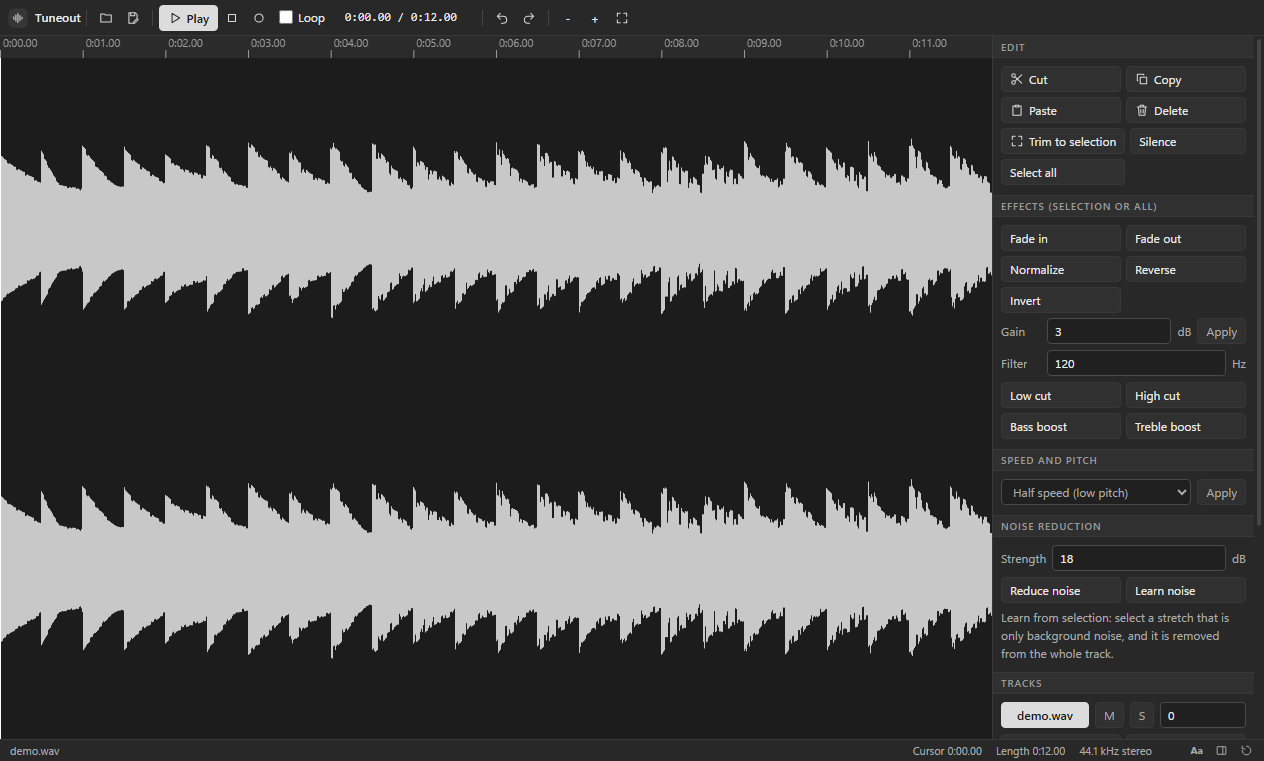
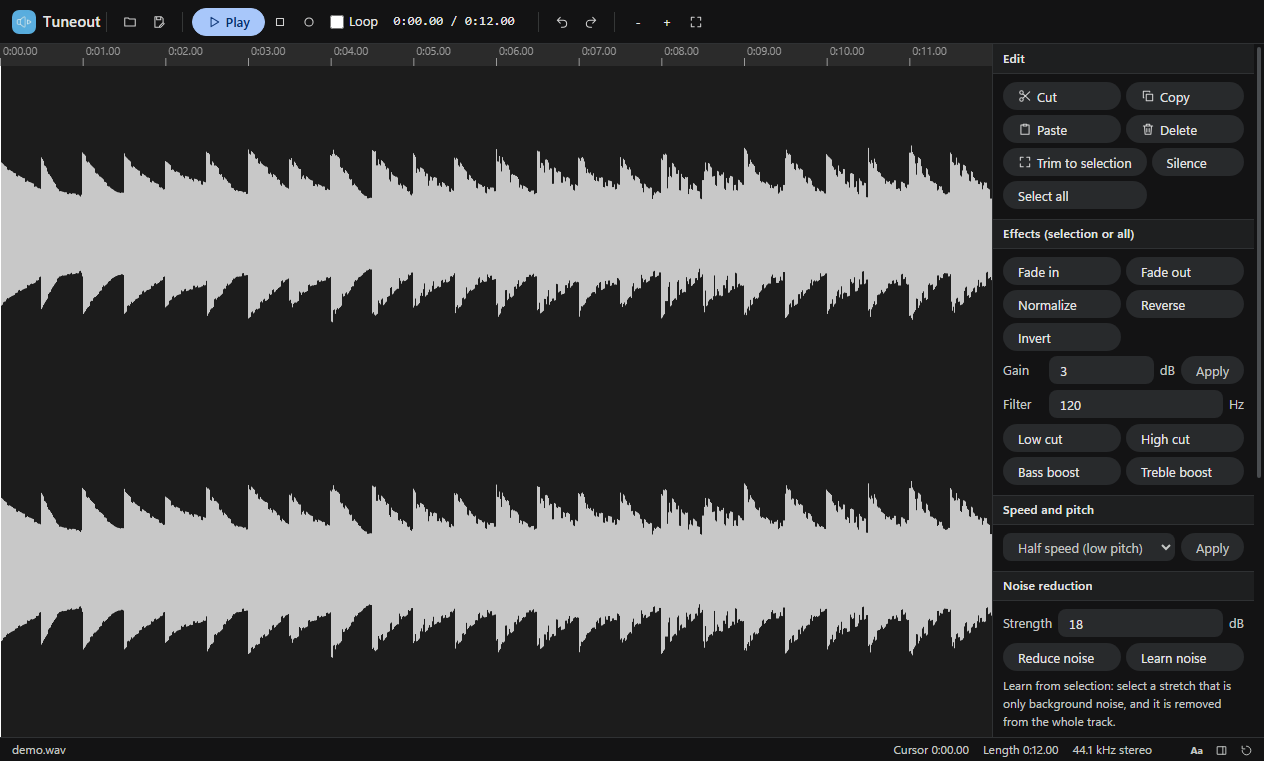
fix: Tuneout 1.0.16
New Google-style look: charcoal theme, pill buttons, blue accent, colour app logo. Refreshed README and screenshots.

diff --git a/renderer/lookout.css b/renderer/lookout.css
@@ -1,68 +1,69 @@
-/* Lookout gray UI kit v3: compact pro workspace, flat, no hue. Shared by every Lookout app. */
+/* Lookout UI kit v4: Google-style dark (AI Studio / Colab / Gemini): soft surfaces, pill buttons, blue accent. Shared by every Lookout app. */
 :root{
-  --bg:#202020; --bg-2:#282828; --bg-3:#303030; --bg-4:#3a3a3a; --stage:#181818;
-  --line:#383838; --line-2:#4a4a4a; --line-3:#5c5c5c;
-  --text:#e8e8e8; --text-2:#ababab; --text-3:#9a9a9a;
-  --accent:#dcdcdc; --accent-ink:#1b1b1b; --focus:#a0a0a0;
-  --radius:4px; --h:26px; --pad:8px;
-  --font:"Segoe UI Variable Text","Segoe UI",system-ui,-apple-system,sans-serif; --mono:Consolas,"Cascadia Mono",monospace;
+  --bg:#131314; --bg-2:#1e1f20; --bg-3:#282a2c; --bg-4:#333537; --stage:#0e0e0f;
+  --line:#2f3133; --line-2:#444746; --line-3:#5f6368;
+  --text:#e3e3e3; --text-2:#c4c7c5; --text-3:#9aa0a6;
+  --accent:#a8c7fa; --accent-ink:#062e6f; --accent-2:#0b57d0; --accent-soft:#2b3a55; --focus:#a8c7fa;
+  --radius:8px; --h:28px; --pad:10px;
+  --font:"Google Sans Text","Google Sans",Roboto,"Segoe UI Variable Text","Segoe UI",system-ui,-apple-system,sans-serif; --mono:Consolas,"Cascadia Mono",monospace;
 }
 *{box-sizing:border-box;margin:0;padding:0}
-html,body{height:100%;background:var(--bg);color:var(--text);font:12px/1.4 var(--font);overflow:hidden;user-select:none;-webkit-font-smoothing:antialiased}
+html,body{height:100%;background:var(--bg);color:var(--text);font:13px/1.45 var(--font);overflow:hidden;user-select:none;-webkit-font-smoothing:antialiased}
 button,input,select,textarea{font:inherit;color:inherit}
 .app{display:grid;grid-template-rows:auto 1fr auto;height:100vh}
 
 /* ---------- toolbar ---------- */
-.toolbar{display:flex;align-items:center;gap:1px;padding:4px 8px;min-height:36px;background:var(--bg-2);border-bottom:1px solid var(--line);flex-wrap:nowrap;overflow-x:auto;overflow-y:hidden;scrollbar-width:none}
+.toolbar{display:flex;align-items:center;gap:1px;padding:6px 12px;min-height:44px;background:var(--bg);border-bottom:1px solid var(--line);flex-wrap:nowrap;overflow-x:auto;overflow-y:hidden;scrollbar-width:none}
 .toolbar::-webkit-scrollbar{height:0}
 .toolbar>*{flex-shrink:0}
-.toolbar .sep{width:1px;height:16px;align-self:center;background:var(--line-2);margin:0 5px;opacity:.8}
+.toolbar .sep{width:1px;height:20px;align-self:center;background:var(--line-2);margin:0 8px;opacity:.7}
 .toolbar .grow{flex:1 1 auto;min-width:8px}
 .toolbar input[type=text],.toolbar input[type=search]{width:150px}
-.brand{display:flex;align-items:center;gap:7px;padding-right:2px;margin-right:2px;font-weight:600;font-size:12px;color:var(--text)}
-.brand img{width:20px;height:20px;border-radius:5px;display:block}
+.brand{display:flex;align-items:center;gap:7px;padding-right:2px;margin-right:2px;font-weight:500;font-size:15px;letter-spacing:.1px;color:var(--text)}
+.brand img{width:24px;height:24px;border-radius:7px;display:block}
 .brand+.sep{margin-left:0}
 
 /* ---------- buttons ---------- */
-.btn{display:inline-flex;align-items:center;justify-content:center;gap:5px;height:var(--h);padding:0 8px;background:var(--bg-3);border:1px solid var(--line);border-radius:var(--radius);cursor:pointer;white-space:nowrap;line-height:1;transition:background .08s,border-color .08s}
-.btn:hover{background:var(--bg-4);border-color:var(--line-2)}
-.btn:active{background:#262626}
+.btn{display:inline-flex;align-items:center;justify-content:center;gap:5px;height:var(--h);padding:0 14px;background:var(--bg-3);border:1px solid transparent;border-radius:999px;cursor:pointer;white-space:nowrap;line-height:1;transition:background .08s,border-color .08s}
+.btn:hover{background:var(--bg-4)}
+.btn:active{background:#3c3f41}
 .btn:focus-visible,input:focus-visible,select:focus-visible,textarea:focus-visible,[tabindex]:focus-visible{outline:2px solid var(--focus);outline-offset:1px}
-.btn.primary{background:var(--accent);color:var(--accent-ink);border-color:var(--accent);font-weight:600}
-.btn.primary:hover{background:#ececec;border-color:#ececec}
-.btn.on{background:#4a4a4a;border-color:var(--line-3);box-shadow:inset 0 0 0 1px #6a6a6a}
+.btn.primary{background:var(--accent);color:var(--accent-ink);border-color:var(--accent);font-weight:500}
+.btn.primary:hover{background:#c2d7fb;border-color:#c2d7fb;box-shadow:0 1px 3px rgba(0,0,0,.4)}
+.btn.on{background:var(--accent-soft);color:var(--accent);border-color:transparent}
 .btn[disabled]{opacity:.45;pointer-events:none}
-.btn.icon{padding:0;width:var(--h);min-width:var(--h)}
+.btn.icon{padding:0;width:var(--h);min-width:var(--h);border-radius:50%}
 .btn .ic{width:14px;height:14px;flex-shrink:0;display:block;opacity:.92}
 .toolbar .btn:not(.primary):not(.on){background:transparent;border-color:transparent}
-.toolbar .btn:not(.primary):not(.on):hover{background:var(--bg-4);border-color:var(--line-2)}
+.toolbar .btn:not(.primary):not(.on):hover{background:var(--bg-3);border-color:transparent}
 
 /* icon-only toolbar: names live in the tooltip (Aa in the status bar brings the labels back) */
-.toolbar:not(.lbl) .btn:not(.primary):has(> svg.ic),.toolbar.c3 .btn:has(> svg.ic){font-size:0;gap:0;width:var(--h);padding:0}
+.toolbar:not(.lbl) .btn:not(.primary):has(> svg.ic),.toolbar.c3 .btn:has(> svg.ic){font-size:0;gap:0;width:var(--h);padding:0;border-radius:50%}
 .toolbar.c2 .brand span{display:none}
 .toolbar.c2 input[type=text],.toolbar.c2 input[type=search]{width:110px}
 .toolbar.lbl.c1 .btn.minor:not(.primary):has(> svg.ic),.toolbar.lbl.c2 .btn:not(.primary):has(> svg.ic){font-size:0;gap:0;width:var(--h);padding:0}
 
 /* ---------- fields ---------- */
-input[type=text],input[type=number],input[type=search],input[type=date],select,textarea{background:var(--bg);border:1px solid var(--line-2);border-radius:var(--radius);padding:0 7px;height:var(--h);user-select:text;min-width:0;font-size:12px}
+input[type=text],input[type=number],input[type=search],input[type=date],select,textarea{background:var(--bg-3);border:1px solid transparent;border-radius:var(--radius);padding:0 10px;height:var(--h);user-select:text;min-width:0;font-size:13px}
 input[type=number],.frow>input,.field>input{font-variant-numeric:tabular-nums}
 textarea{height:auto;padding:5px 7px;resize:vertical;line-height:1.4}
 select{padding-right:4px;cursor:pointer}
-input:hover,select:hover,textarea:hover{border-color:var(--line-3)}
-input[type=range]{accent-color:#c8c8c8;height:var(--h)}
-input[type=checkbox]{accent-color:#c8c8c8;width:14px;height:14px;cursor:pointer}
-input[type=color]{border:1px solid var(--line-2);background:var(--bg);width:26px;height:var(--h);padding:2px;border-radius:var(--radius)}
-label.field{display:flex;flex-direction:column;gap:3px;color:var(--text-2);font-size:11px}
-label.field>input,label.field>select,label.field>textarea{width:100%;color:var(--text);font-size:12px}
+input:hover,select:hover,textarea:hover{background:var(--bg-4)}
+input[type=text]:focus,input[type=number]:focus,input[type=search]:focus,input[type=date]:focus,select:focus,textarea:focus{outline:none;border-color:var(--accent);background:var(--bg-2)}
+input[type=range]{accent-color:#a8c7fa;height:var(--h)}
+input[type=checkbox]{accent-color:#a8c7fa;width:14px;height:14px;cursor:pointer}
+input[type=color]{border:1px solid var(--line-2);background:var(--bg-3);width:26px;height:var(--h);padding:2px;border-radius:var(--radius)}
+label.field{display:flex;flex-direction:column;gap:3px;color:var(--text-2);font-size:12px}
+label.field>input,label.field>select,label.field>textarea{width:100%;color:var(--text);font-size:13px}
 
 /* ---------- layout ---------- */
 .main{display:flex;min-height:0;min-width:0}
-.sidebar{width:210px;background:var(--bg-2);border-right:1px solid var(--line);overflow:auto;padding:var(--pad);flex-shrink:0;min-width:0}
+.sidebar{width:210px;background:var(--bg);border-right:1px solid var(--line);overflow:auto;padding:var(--pad);flex-shrink:0;min-width:0}
 .sidebar.right{border-right:0;border-left:1px solid var(--line);width:250px}
 .sidebar.collapsed{display:none!important}
-.sidebar h3,.panel-title{font-size:10px;text-transform:uppercase;letter-spacing:.09em;color:var(--text-3);font-weight:600}
+.sidebar h3,.panel-title{font-size:12px;letter-spacing:.2px;color:var(--text-2);font-weight:500}
 .sidebar h3{margin:12px 0 6px}
-.sidebar>h3{display:flex;align-items:center;gap:6px;height:22px;margin:10px calc(var(--pad) * -1) 8px;padding:0 var(--pad);background:var(--bg-3);border-top:1px solid var(--line);border-bottom:1px solid var(--line)}
+.sidebar>h3{display:flex;align-items:center;gap:6px;height:30px;margin:10px calc(var(--pad) * -1) 8px;padding:0 var(--pad);background:var(--bg-2);border-top:1px solid var(--line);border-bottom:1px solid var(--line);color:var(--text)}
 .sidebar>h3:first-child{margin-top:calc(var(--pad) * -1);border-top:0}
 .panel-title{margin:12px 0 6px}
 .sidebar input[type=text],.sidebar input[type=search],.sidebar select,.sidebar textarea{width:100%}
@@ -73,20 +74,20 @@ label.field>input,label.field>select,label.field>textarea{width:100%;color:var(-
 .sidebar .btn{width:auto}
 .sidebar>.btn{width:100%;margin-bottom:5px}
 .stage{flex:1;min-width:0;min-height:0;position:relative;background:var(--stage);overflow:auto}
-.status{display:flex;gap:14px;align-items:center;height:22px;padding:0 10px;background:var(--bg-2);border-top:1px solid var(--line);color:var(--text-2);font-size:11px;white-space:nowrap;overflow:hidden}
+.status{display:flex;gap:14px;align-items:center;height:24px;padding:0 12px;background:var(--bg);border-top:1px solid var(--line);color:var(--text-2);font-size:12px;white-space:nowrap;overflow:hidden}
 .status .grow{flex:1}
 body.hasdock .status{padding-right:112px}
-.wbs{position:fixed;right:6px;bottom:2px;height:18px;display:flex;gap:2px;z-index:8;background:var(--bg-2);padding-left:6px}
+.wbs{position:fixed;right:6px;bottom:2px;height:18px;display:flex;gap:2px;z-index:8;background:var(--bg);padding-left:6px}
 .wbs[hidden]{display:none}
-.wbs .wb{height:18px;min-width:22px;padding:0 4px;display:inline-flex;align-items:center;justify-content:center;font-size:10px;font-weight:700;line-height:1;background:transparent;border:1px solid transparent;border-radius:3px;color:var(--text-2);cursor:pointer}
+.wbs .wb{height:18px;min-width:22px;padding:0 4px;display:inline-flex;align-items:center;justify-content:center;font-size:10px;font-weight:700;line-height:1;background:transparent;border:1px solid transparent;border-radius:6px;color:var(--text-2);cursor:pointer}
 .wbs .wb[hidden]{display:none}
 .wbs .wb svg{width:13px;height:13px;display:block}
-.wbs .wb:hover{background:var(--bg-4);border-color:var(--line-2);color:var(--text)}
-.wbs .wb.on{background:var(--bg-4);border-color:var(--line-3);color:var(--text)}
+.wbs .wb:hover{background:var(--bg-3);color:var(--text)}
+.wbs .wb.on{background:var(--accent-soft);color:var(--accent)}
 .list{display:flex;flex-direction:column;gap:1px}
-.list .item{padding:3px 6px;border-radius:var(--radius);cursor:pointer;border:1px solid transparent;display:flex;gap:6px;align-items:center;min-height:26px}
+.list .item{padding:3px 10px;border-radius:999px;cursor:pointer;border:1px solid transparent;display:flex;gap:6px;align-items:center;min-height:26px}
 .list .item:hover{background:var(--bg-3)}
-.list .item.sel{background:var(--bg-4);border-color:var(--line-2)}
+.list .item.sel{background:var(--accent-soft);color:var(--accent);border-color:transparent}
 .row{display:flex;gap:5px;align-items:center}
 .grow{flex:1 1 auto;min-width:0}
 .brow{display:grid;grid-template-columns:1fr 1fr;gap:5px;margin-bottom:5px}
@@ -99,17 +100,17 @@ body.hasdock .status{padding-right:112px}
 .sidebar .swatches{margin-bottom:8px}
 .list .item .btn{height:22px!important;width:24px!important;padding:0!important;font-size:0!important;gap:0;background:transparent;border-color:transparent;opacity:.55}
 .list .item:hover .btn,.list .item.sel .btn{opacity:1}
-.list .item .btn:hover{background:var(--bg-4);border-color:var(--line-2)}
+.list .item .btn:hover{background:var(--bg-4)}
 .col{display:flex;flex-direction:column;gap:5px}
 .muted{color:var(--text-2)}
 .empty{position:absolute;inset:0;display:flex;flex-direction:column;align-items:center;justify-content:center;gap:10px;color:var(--text-3);text-align:center;padding:24px}
-.empty .big{font-size:16px;color:var(--text-2);font-weight:600}
+.empty .big{font-size:20px;color:var(--text);font-weight:400}
 
 /* panel grip: drag to resize, double-click to collapse or restore */
 .grip{position:relative;flex:0 0 5px;width:5px;margin:0 -3px 0 -2px;z-index:6;cursor:col-resize;touch-action:none}
 .grip::after{content:"";position:absolute;top:0;bottom:0;left:2px;width:1px;background:transparent;transition:background .1s}
-.grip:hover::after,.grip.drag::after{background:var(--line-3);width:2px;left:1px}
-.grip.collapsed{flex:0 0 8px;width:8px;margin:0;background:var(--bg-2);border-left:1px solid var(--line);border-right:1px solid var(--line)}
+.grip:hover::after,.grip.drag::after{background:var(--accent);width:2px;left:1px}
+.grip.collapsed{flex:0 0 8px;width:8px;margin:0;background:var(--bg);border-left:1px solid var(--line);border-right:1px solid var(--line)}
 .grip.collapsed::after{left:3px;top:calc(50% - 14px);bottom:auto;height:28px;width:2px;background:var(--line-3);border-radius:2px}
 .grip.collapsed:hover{background:var(--bg-3)}
 body.gripping{cursor:col-resize}
@@ -117,30 +118,30 @@ body.gripping *{cursor:col-resize!important;user-select:none!important}
 
 /* ---------- overlays ---------- */
 .modal-back{position:fixed;inset:0;background:rgba(0,0,0,.6);display:flex;align-items:center;justify-content:center;z-index:50}
-.modal{background:var(--bg-2);border:1px solid var(--line-2);border-radius:8px;min-width:340px;max-width:80vw;max-height:85vh;overflow:auto;padding:16px;display:flex;flex-direction:column;gap:12px;box-shadow:0 18px 50px rgba(0,0,0,.5)}
-.modal h2{font-size:14px;font-weight:600}
-.toast{position:fixed;left:50%;bottom:34px;transform:translateX(-50%);background:var(--bg-4);border:1px solid var(--line-3);padding:7px 14px;border-radius:6px;z-index:60;box-shadow:0 8px 24px rgba(0,0,0,.4)}
-.progress{height:5px;background:var(--bg);border:1px solid var(--line);border-radius:4px;overflow:hidden}
+.modal{background:var(--bg-2);border:0;border-radius:24px;min-width:360px;max-width:80vw;max-height:85vh;overflow:auto;padding:24px;display:flex;flex-direction:column;gap:14px;box-shadow:0 8px 32px rgba(0,0,0,.6)}
+.modal h2{font-size:20px;font-weight:400}
+.toast{position:fixed;left:50%;bottom:34px;transform:translateX(-50%);background:#e3e3e3;color:#1f1f1f;border:0;padding:10px 18px;border-radius:8px;z-index:60;box-shadow:0 8px 24px rgba(0,0,0,.4)}
+.progress{height:6px;background:var(--bg-3);border:0;border-radius:999px;overflow:hidden}
 .progress>i,.progress>div{display:block;height:100%;background:var(--accent);width:0}
 
 /* ---------- tables ---------- */
 table.grid{border-collapse:separate;border-spacing:0;width:100%}
 table.grid th,table.grid td{border-bottom:1px solid var(--line);padding:0 10px;height:30px;text-align:left;vertical-align:middle}
-table.grid th{background:var(--bg-2);color:var(--text-2);font-weight:600;font-size:11px;position:sticky;top:0;z-index:1;height:26px}
-table.grid tbody tr:hover td{background:#242424}
-table.grid tr.sel td{background:#323232}
+table.grid th{background:var(--bg-2);color:var(--text-2);font-weight:500;font-size:12px;position:sticky;top:0;z-index:1;height:26px}
+table.grid tbody tr:hover td{background:var(--bg-2)}
+table.grid tr.sel td{background:var(--accent-soft)}
 table.grid tbody tr{cursor:default}
 table.grid td .btn{height:22px;margin-left:6px;vertical-align:middle}
 table.grid td{white-space:nowrap}
 
 /* ---------- misc ---------- */
 ::-webkit-scrollbar{width:10px;height:10px}
-::-webkit-scrollbar-thumb{background:#454545;border:3px solid transparent;background-clip:padding-box;border-radius:8px}
-::-webkit-scrollbar-thumb:hover{background:#5a5a5a;background-clip:padding-box;border:3px solid transparent}
+::-webkit-scrollbar-thumb{background:#4a4d50;border:3px solid transparent;background-clip:padding-box;border-radius:8px}
+::-webkit-scrollbar-thumb:hover{background:#6b6f73;background-clip:padding-box;border:3px solid transparent}
 ::-webkit-scrollbar-track,::-webkit-scrollbar-corner{background:transparent}
 .swatches{display:flex;flex-wrap:wrap;gap:5px}
-.swatches button{width:20px;height:20px;border:1px solid var(--line-3);border-radius:4px;cursor:pointer;padding:0}
+.swatches button{width:22px;height:22px;border:1px solid var(--line-3);border-radius:50%;cursor:pointer;padding:0}
 .swatches button.on{outline:2px solid var(--accent);outline-offset:2px}
-kbd{font-family:var(--mono);font-size:10px;background:var(--bg-3);border:1px solid var(--line-2);border-bottom-width:2px;border-radius:3px;padding:0 4px}
+kbd{font-family:var(--mono);font-size:10px;background:var(--bg-3);border:1px solid var(--line-2);border-bottom-width:2px;border-radius:4px;padding:0 5px}
 
 input::placeholder,textarea::placeholder{color:var(--text-3);opacity:1}

diff --git a/README.md b/README.md
@@ -1,8 +1,10 @@
-<p align="center"><img src="screenshots/banner.png" alt="Tuneout" width="100%"></p>
+<p align="center"><img src="screenshots/logo.png" alt="Tuneout" width="128"></p>
 
-<p align="center"><b>Record and edit audio</b><br>Version 1.0.3 for Windows · Free · Offline · No account</p>
+<h1 align="center">Tuneout</h1>
 
-<p align="center"><a href="https://github.com/plawanpawin-byte/tuneout/releases/latest"><b>Download Tuneout</b></a> · <a href="https://github.com/plawanpawin-byte/Lookout">All Lookout apps</a></p>
+<p align="center"><b>Record and edit audio</b><br>Version 1.0.16 for Windows · Free · Offline · No account</p>
+
+<p align="center"><a href="https://github.com/plawanpawin-byte/tuneout/releases/latest"><b>Download Tuneout</b></a> · <a href="https://github.com/plawanpawin-byte/lookout-launcher">Lookout launcher</a> · <a href="https://github.com/plawanpawin-byte/Lookout">All Lookout apps</a></p>
 
 ---
 
@@ -12,11 +14,51 @@ Tuneout is an audio editor. See your sound as a waveform, select a part with the
 
 ![Tuneout](screenshots/01-waveform.png)
 
-**On this page:** [Screenshots](#see-it-in-action) · [Interface](#the-interface) · [Features](#everything-it-can-do) · [How to use it](#how-to-use-it) · [Shortcuts](#keyboard-shortcuts) · [Formats](#files-and-formats) · [Privacy](#private-by-design) · [Install](#install) · [Questions](#questions)
+**On this page:** [In plain words](#in-plain-words) · [Who it is for](#who-it-is-for) · [Try it in 3 steps](#try-it-in-3-steps) · [Screenshots](#see-it-in-action) · [Features](#everything-it-can-do) · [How to use it](#how-to-use-it) · [Privacy](#private-by-design) · [Install](#install) · [Questions](#questions)
 
-## What is new in 1.0.3
+## In plain words
 
-A refreshed interface: every toolbar button now has a clear line icon, the app's mark sits at the top left, controls share one height and spacing, panels line up in tidy grids, and the toolbar keeps every button reachable on smaller windows by switching less important buttons to icons.
+Tuneout is an **audio editor**. It shows your sound as a **waveform**, a picture of the loudness over time, so you can see where each word or beat is. Drag the mouse across the waveform to select a part, then cut, copy, paste or delete it, make it fade in or out, make it louder or quieter, or change its speed.
+
+You can also **record** from a microphone. Save the result as WAV, MP3, FLAC, AAC or Opus.
+
+**Not for:** Tuneout edits one audio file at a time. It is not a multi-track music studio.
+
+## Who it is for
+
+- **Podcasters and voice-over artists** tidying recordings.
+- **Students** cutting a lecture clip.
+- **Anyone** making a ringtone or trimming silence from a voice note.
+
+## Try it in 3 steps
+
+1. Click **Open** to load an audio file, or **Record** to make a new one.
+2. Drag over the part you want to remove and press **Delete**.
+3. Apply **Normalise**, then **Save as**.
+
+## What is new in 1.0.16
+
+A new look inspired by Google's own tools (AI Studio, Colab, Gemini): a calm dark charcoal theme, rounded pill buttons, a soft blue accent and roomier spacing. The app icon is now a colour logo so you can find Tuneout at a glance in the Start menu and in the Lookout launcher. All screenshots below were taken again with the new look.
+
+## In plain words
+
+Tuneout is an **audio editor**. It shows your sound as a **waveform**, a picture of the loudness over time, so you can see where each word or beat is. Drag the mouse across the waveform to select a part, then cut, copy, paste or delete it, make it fade in or out, make it louder or quieter, or change its speed.
+
+You can also **record** from a microphone. Save the result as WAV, MP3, FLAC, AAC or Opus.
+
+**Not for:** Tuneout edits one audio file at a time. It is not a multi-track music studio.
+
+## Who it is for
+
+- **Podcasters and voice-over artists** tidying recordings.
+- **Students** cutting a lecture clip.
+- **Anyone** making a ringtone or trimming silence from a voice note.
+
+## Try it in 3 steps
+
+1. Click **Open** to load an audio file, or **Record** to make a new one.
+2. Drag over the part you want to remove and press **Delete**.
+3. Apply **Normalise**, then **Save as**.
 
 ## See it in action
 
@@ -122,7 +164,7 @@ Opens MP3, WAV, FLAC, AAC, M4A, OGG, Opus, WMA and common video files. Saves MP3
 
 ## Install
 
-1. Open the [latest release](https://github.com/plawanpawin-byte/tuneout/releases/latest) and download the file named **Tuneout-Setup-** followed by the version number and **.exe**. You can also install it from the [Lookout launcher](https://github.com/${OWNER}/lookout-launcher), which keeps it up to date.
+1. Open the [latest release](https://github.com/plawanpawin-byte/tuneout/releases/latest) and download the file named **Tuneout-Setup-** followed by the version number and **.exe**. You can also install it from the [Lookout launcher](https://github.com/plawanpawin-byte/lookout-launcher), which keeps it up to date.
 2. Run the installer. It installs just for you, so it does not ask for administrator rights.
 3. Windows may show a blue **Windows protected your PC** screen because these installers are not signed with a paid certificate. Click **More info**, then **Run anyway**.
 4. Open Tuneout from the Start menu.
@@ -134,18 +176,40 @@ Opens MP3, WAV, FLAC, AAC, M4A, OGG, Opus, WMA and common video files. Saves MP3
 **Is editing destructive?**  
 Edits happen in memory and can be undone until you save a file.
 
+**What is normalise?**  
+It raises or lowers the volume so the loudest part reaches a standard level.
+
+**What is a fade?**  
+A gradual change in volume at the start or end so the sound does not begin or stop suddenly.
+
+**Can I undo?**  
+Yes, until you save.
+
+**What is normalise?**  
+It raises or lowers the volume so the loudest part reaches a standard level.
+
+**What is a fade?**  
+A gradual change in volume at the start or end so the sound does not begin or stop suddenly.
+
+**Can I undo?**  
+Yes, until you save.
+
 ## About Lookout
 
-Tuneout belongs to the **[Lookout](https://github.com/plawanpawin-byte/Lookout)** family: ten small, private Windows apps for documents and media, all with the same calm grey look and the same promise that your files stay yours. Install and update them together with the [Lookout launcher](https://github.com/plawanpawin-byte/lookout-launcher).
+Tuneout is part of **[Lookout](https://github.com/plawanpawin-byte/Lookout)**: ten small, private Windows apps for documents and media that share one look and one promise, that your files stay on your computer. Install and update them together with the [Lookout launcher](https://github.com/plawanpawin-byte/lookout-launcher).
 
-- **[Pageout](https://github.com/plawanpawin-byte/pageout)**: read, annotate and sign pdfs
-- **[Chartout](https://github.com/plawanpawin-byte/chartout)**: flowcharts and diagrams
-- **[Branchout](https://github.com/plawanpawin-byte/branchout)**: mind maps and outlines
-- **[Planout](https://github.com/plawanpawin-byte/planout)**: plans and gantt timelines
-- **[Frameout](https://github.com/plawanpawin-byte/frameout)**: screen design and prototypes
-- **[Cutout](https://github.com/plawanpawin-byte/cutout)**: video editing on a timeline
-- **[Shiftout](https://github.com/plawanpawin-byte/shiftout)**: convert and compress media
-- **[Castout](https://github.com/plawanpawin-byte/castout)**: record your screen
-- **[Mendout](https://github.com/plawanpawin-byte/mendout)**: repair damaged media
+| | App | What it is for | Code |
+| --- | --- | --- | --- |
+| <img src="https://raw.githubusercontent.com/plawanpawin-byte/lookout-launcher/main/build/icon.png" width="32" alt="Lookout"> | **Lookout** | Install, open and update all the apps below | [GitHub](https://github.com/plawanpawin-byte/lookout-launcher) |
+| <img src="https://raw.githubusercontent.com/plawanpawin-byte/pageout/main/build/icon.png" width="32" alt="Pageout"> | **Pageout** | Read, annotate and sign PDFs | [GitHub](https://github.com/plawanpawin-byte/pageout) |
+| <img src="https://raw.githubusercontent.com/plawanpawin-byte/chartout/main/build/icon.png" width="32" alt="Chartout"> | **Chartout** | Flowcharts, org charts and diagrams | [GitHub](https://github.com/plawanpawin-byte/chartout) |
+| <img src="https://raw.githubusercontent.com/plawanpawin-byte/branchout/main/build/icon.png" width="32" alt="Branchout"> | **Branchout** | Mind maps and outlines | [GitHub](https://github.com/plawanpawin-byte/branchout) |
+| <img src="https://raw.githubusercontent.com/plawanpawin-byte/planout/main/build/icon.png" width="32" alt="Planout"> | **Planout** | Project plans and Gantt timelines | [GitHub](https://github.com/plawanpawin-byte/planout) |
+| <img src="https://raw.githubusercontent.com/plawanpawin-byte/frameout/main/build/icon.png" width="32" alt="Frameout"> | **Frameout** | App and web screen design with click-through prototypes | [GitHub](https://github.com/plawanpawin-byte/frameout) |
+| <img src="https://raw.githubusercontent.com/plawanpawin-byte/cutout/main/build/icon.png" width="32" alt="Cutout"> | **Cutout** | Video editing on a timeline | [GitHub](https://github.com/plawanpawin-byte/cutout) |
+| <img src="https://raw.githubusercontent.com/plawanpawin-byte/shiftout/main/build/icon.png" width="32" alt="Shiftout"> | **Shiftout** | Convert and compress video and audio, make GIFs | [GitHub](https://github.com/plawanpawin-byte/shiftout) |
+| <img src="https://raw.githubusercontent.com/plawanpawin-byte/castout/main/build/icon.png" width="32" alt="Castout"> | **Castout** | Record your screen | [GitHub](https://github.com/plawanpawin-byte/castout) |
+| <img src="https://raw.githubusercontent.com/plawanpawin-byte/mendout/main/build/icon.png" width="32" alt="Mendout"> | **Mendout** | Check and repair damaged video, audio, pictures and PDFs | [GitHub](https://github.com/plawanpawin-byte/mendout) |
+| <img src="https://raw.githubusercontent.com/plawanpawin-byte/tuneout/main/build/icon.png" width="32" alt="Tuneout"> | **Tuneout** | Record and edit audio | [GitHub](https://github.com/plawanpawin-byte/tuneout) |
 
 Released under the MIT License.
